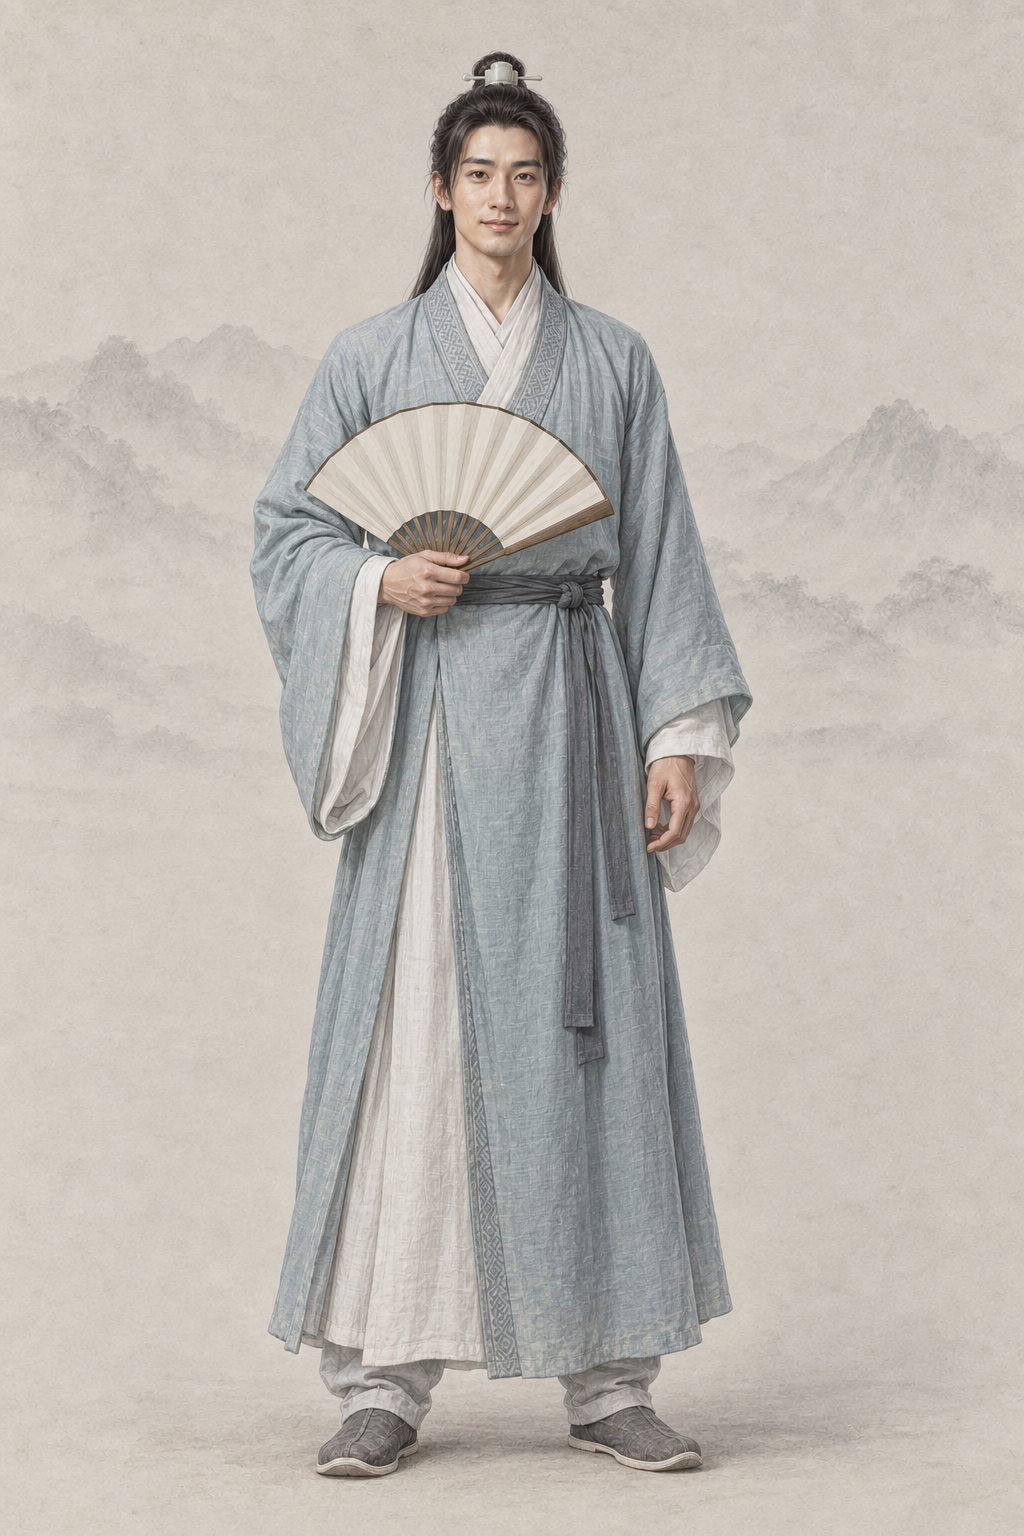
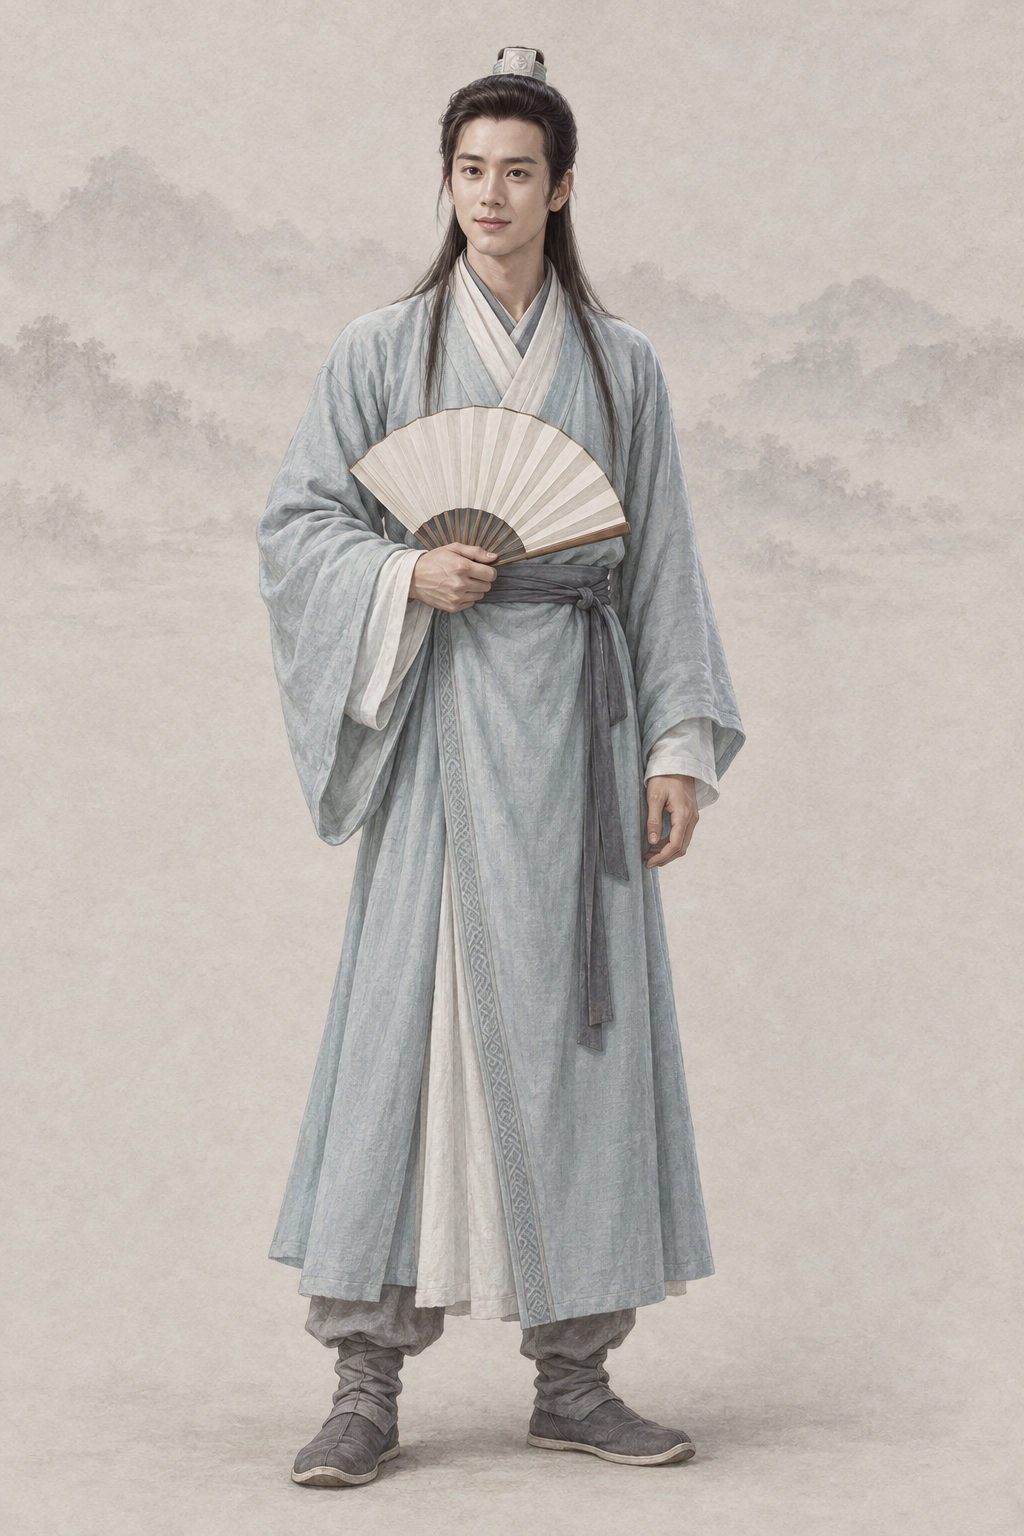
assets(character): por_npc_duanyu__ch01_youth_shizi_base 段誉（codex · AR-32 经典剧照 + 基线）
参考 1997 TVB《天龙八部》 剧照（classic_duanyu_1997.jpg）与两张同性别基线重出；提示词写回、frontmatter 加 classic_ref。

diff --git a/assets/default/prompts/characters/ch01-tianlong/npc_duanyu.md b/assets/default/prompts/characters/ch01-tianlong/npc_duanyu.md
@@ -21,13 +21,39 @@ status: redo
 realism_revision: user_character_realism_20261001
 redo_reason: "面容源自剧集剧照且偶像化（飘发飘带、侧脸回眸），按原著青衫书生的憨直书卷气重做，连同五幅场景"
 reference_upload:
+- .agents/coord/imagegen-reference/hero-20261001/classic_duanyu_1997.jpg
 - assets/default/baseline/character/male/ref_npc_linghuchong__ch05_base01.png
+- assets/default/baseline/character/male/ref_npc_xiaofeng__ch01_base01.png
 codex_prompt_rev: 2026-10-02
+classic_ref:
+  version: 1997 TVB《天龙八部》
+  stills:
+  - .agents/coord/imagegen-reference/hero-20261001/classic_duanyu_1997.jpg
 ---
 
 # 段誉 · 人物写实修正
 
 ## Gemini 提示词
+
+> 2026-10-02 AR-32 重出（5 号出图员，codex exec · image_gen）：主要角色改为参考经典影视版剧照加项目基线生成。上传顺序：1997 TVB《天龙八部》 剧照 1 张（classic_duanyu_1997.jpg），最后两张为同性别画风基线（缩小版 JPEG）。剧照只借造型、气质与面部特征，画面按项目画风重绘、不复制照片。上一版（AR-31 文字版）保留在下一节作历史。
+
+```text
+生成一张 2:3 竖幅全身人物立绘：单人、单一视角、完整全身——头顶、双手、双脚和手中器物的两端都在画面内，四周留出自然空白；人物站姿自然，身体基本朝向正面，头部端正（不歪头、不仰不俯），镜头平视。
+【画风】写实手绘古风人物插画，与本项目写实武侠角色立绘同一画风，像功力深厚的画师用细腻笔触画出的真实人物。手绘插画质感，不是 CG 渲染：不要过度光滑的皮肤、完美对称的五官、塑料高光、过度锐利的发丝；保留自然的笔触和细微不完美。皮肤有真实质感——细小毛孔、细纹、晒痕和自然的左右不对称，不磨皮、不油亮；头发是一缕缕自然的发丝和少量碎发；布料看得出经纬纹理、厚薄和自然垂坠的褶皱，带穿用过的轻微旧化，但完整不破烂；整体设色低饱和、沉稳；柔和的自然光从左上方照来，明暗过渡自然，不打舞台光、轮廓光或美颜柔光。不是照片，不是三维渲染，不是动漫或游戏 CG，也不是油画（没有厚涂笔触和画布纹理）。
+【背景】不透明的暖浅灰色纸底，只在远处有极淡的水墨远山和薄雾，大面积留白；人物与背景明暗分明、轮廓边缘干净完整（后续要自动抠图），水墨和纸纹只在背景里，不侵入人物和衣服；脚下只有很淡的一点接触阴影。
+【人物】段誉，《天龙八部》北宋大理国镇南王世子，初入江湖、无量剑比斗初见时；尚未学会北冥神功、凌波微步和六脉神剑。温雅好辩、不愿争斗，有几分书呆子气。
+【年龄与体态】约二十岁的成年青年，身形修长清瘦，但肩背挺直、不是病弱（约 7.5 头身）。
+【经典造型】以九十年代经典港剧里那位温润如玉的段公子为蓝本（见剧照）：清秀修长的脸、舒展的眉眼、白净的肤色，温雅认真又带点憨直的书卷气；头顶束小髻、其余黑发垂在背后；一身素雅的书生长衫，手持折扇。
+【面容】清秀的长圆脸、额头饱满，眉毛细长平顺、眉尾略垂，眼睛细长明亮、笑起来眼尾弯弯，鼻梁细直，嘴唇略厚、嘴角常带一点温和憨直的笑；肤色白净但有真实纹理。清秀俊逸的翩翩公子，书卷气多于江湖气。
+【发式】头顶的黑发束成小髻，戴一顶小巧的白玉小冠，其余黑发整齐地垂在背后（不随风乱飘，不系飘带）。
+【服饰】原著是青衫书生：浅青色交领右衽长衫（宋式，衣料细洁），玉白色内层，腰系窄灰青丝绦，衣缘只有一小段大理风格的几何纹，长裤、浅灰布履，不堆金饰。
+【道具】右手持一柄半开的素面折扇（竹扇骨、扇面无字无画），停在胸腹前；左手空着、自然垂下；不佩剑。
+【姿态与神情】身体正面站立、头部端正，目光看向前方，嘴角带一点温和而憨直的笑，像正要和人讲一番道理。
+【不要】画面里不要任何文字、题款、印章、签名、水印、边框、分格或多视图；不要第二个人；不要幼态（童颜、娃娃脸、婴儿肥、儿童或少年身材、大头小身）；不要塑料感皮肤、磨皮美颜、网红脸（尖下巴大眼高鼻的模板脸）、过度对称、浓妆、偶像式打光、蜡像感；不要照片质感、三维渲染或动漫大眼；不要歪头、斜镜头；不要多指、缺指（设定的伤残除外）、手与器物粘连或悬空；汉式交领必须右衽（穿着者的左襟压在右襟上），不要左衽（设定为少数民族服制的除外），不要水平镜像；不要现代物品、发光特效、法阵或能量光。不要飘飞的长发和发带、侧脸回眸；不要女性化面孔；不要佩剑；不要六脉剑气光效；不要帝王冠冕。
+【参考图】随提示词上传的参考图共 3 张，按顺序：第 1 张是这个角色经典影视造型的剧照：借鉴其发型、服饰、配色、标志道具、气质和面部特征，让人一眼认出是这个角色；但必须重新绘制成本项目的画风，不要照片质感，不要照搬剧照的构图、光影、背景和姿势，也不要做成照片修图；剧照与上文文字有出入时，以上文文字为准。最后两张是本项目的立绘画风基线：画风、用色、光线、质感和暖浅灰纸底加淡水墨的背景以它们为准——精细写实的数字手绘插画，不是油画，不要厚涂笔触和画布纹理；基线图里人物的长相、年龄、发型、服饰和姿势一律不取。
+```
+
+## AR-31 文字版 Gemini 提示词（2026-10-02 凌晨；AR-32 剧照版之前，历史，不再用于出图）
 
 > 2026-10-02 AR-31 改写（1 号出图员，codex exec · image_gen 出图）：重要人物借鉴经典影视造型，只写成文字——不写演员名、不上传剧照、原创面孔；主角和美人画得好看，去 AI 味，禁止幼态。出图时上传两张同性别基线立绘作画风参考（放在最后）。审核组原稿保留在下一节作历史。
 
